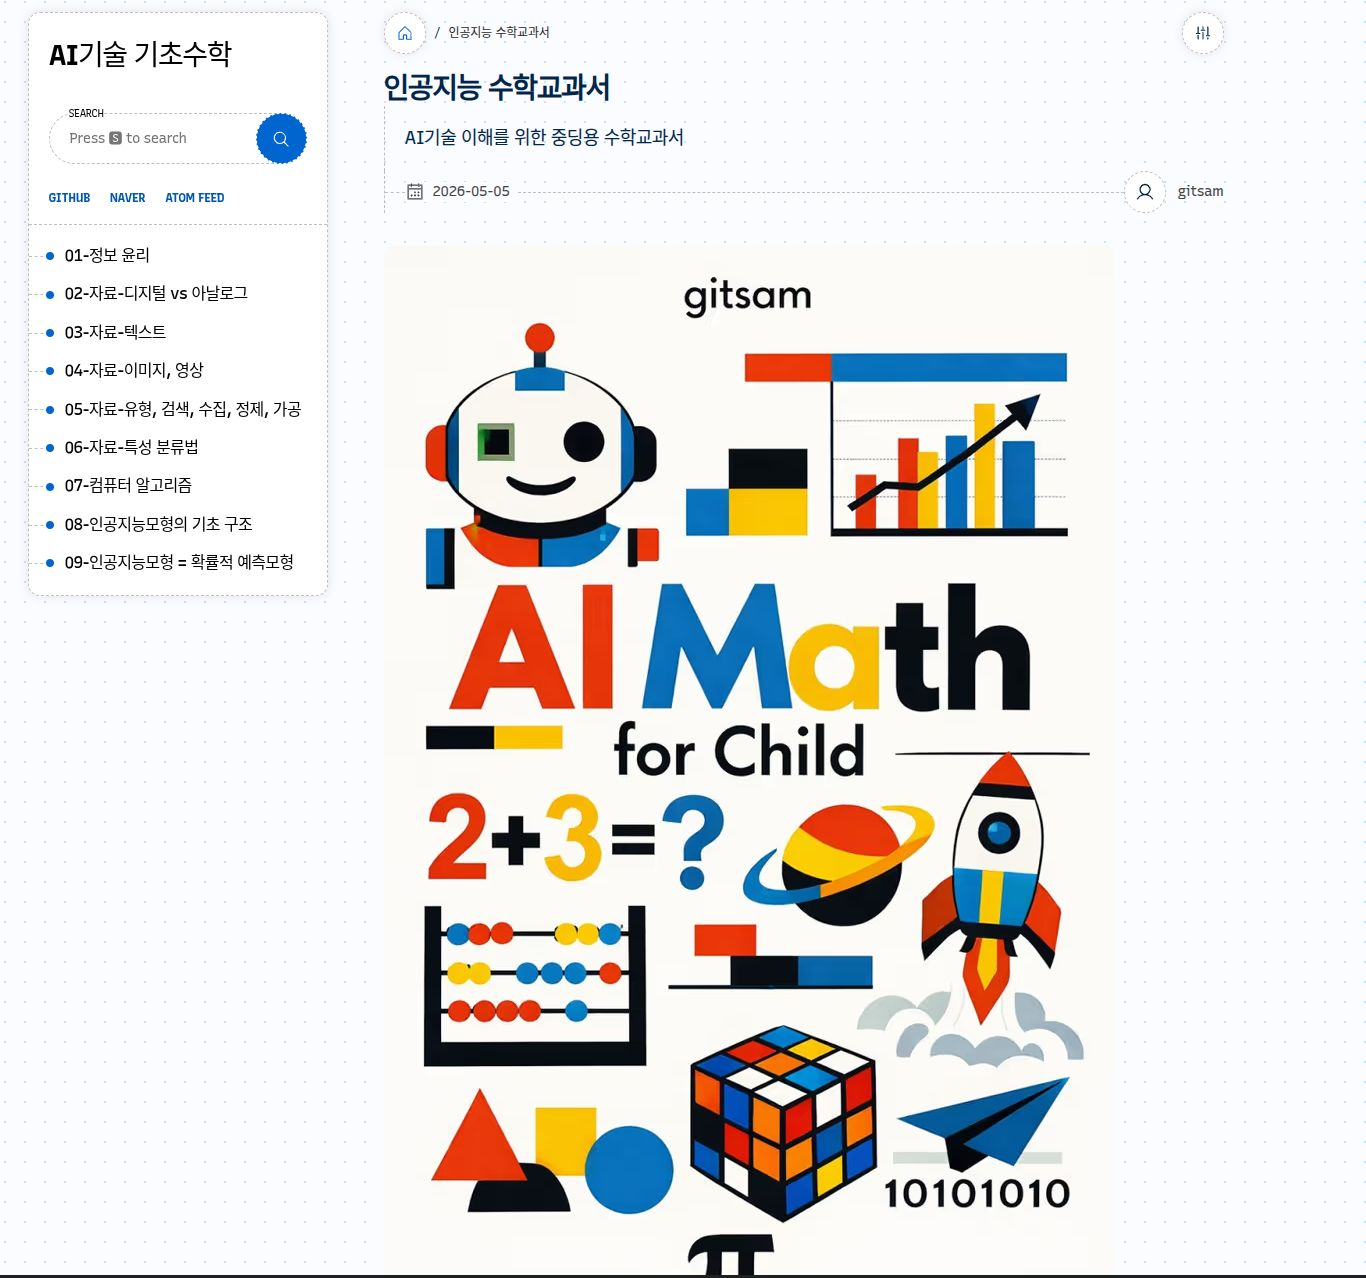
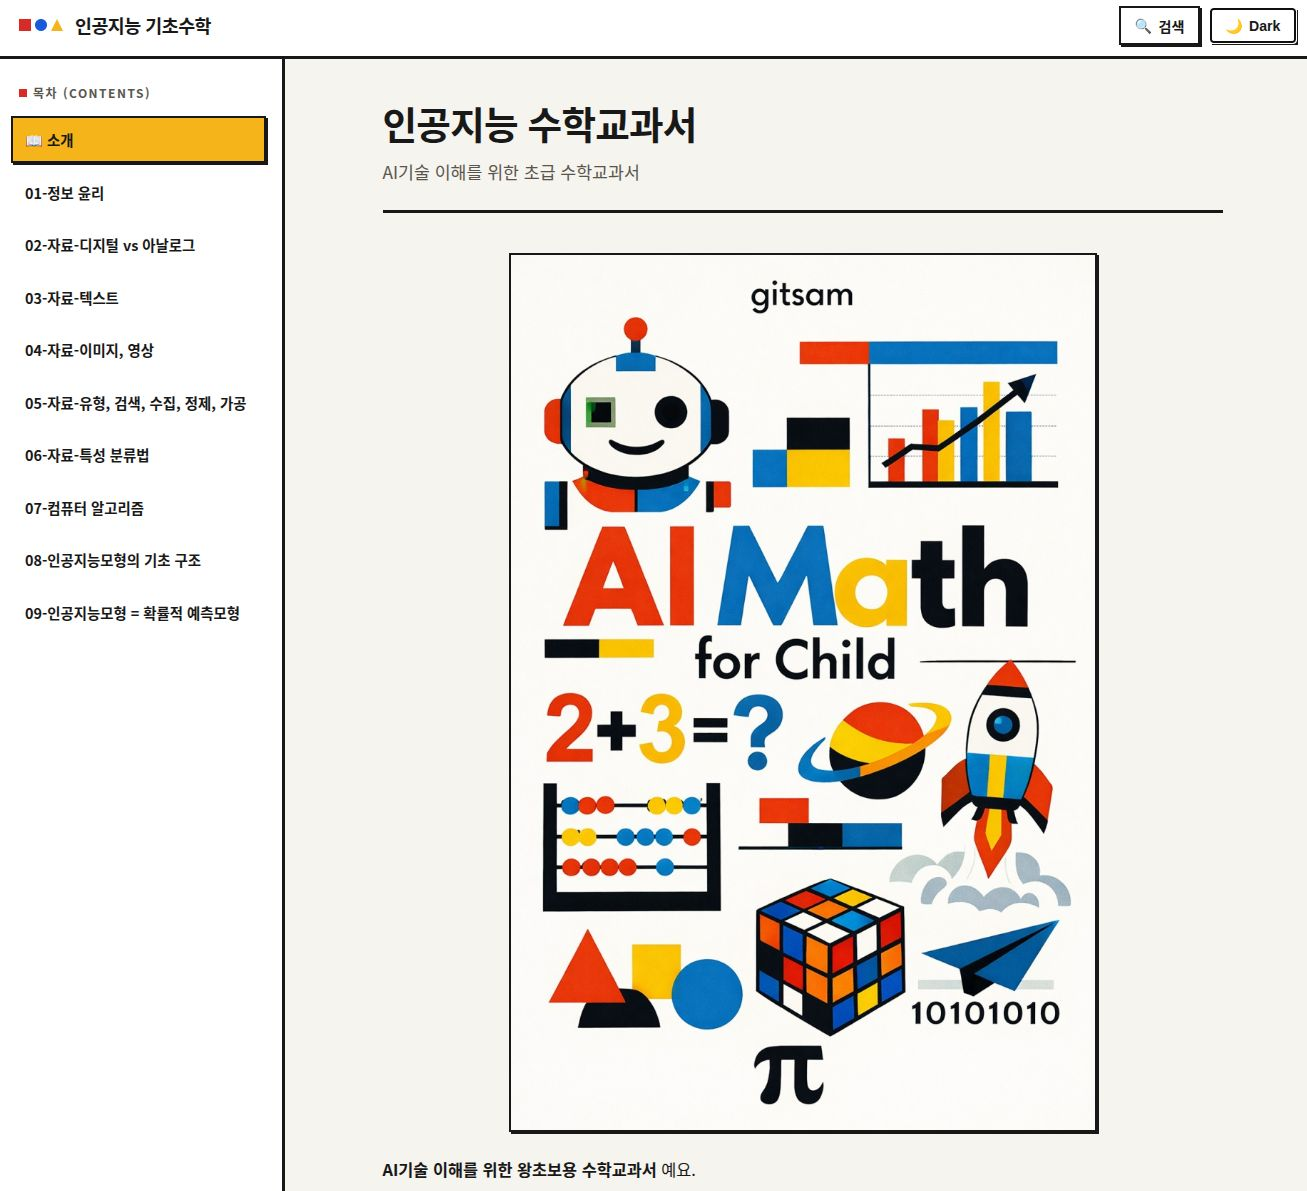
update: deploy-netlify

diff --git a/index.html b/index.html
@@ -277,7 +277,7 @@
         <div class="slot-machine-container relative z-10">
             <!-- Left: Stats & Info -->
             <div class="flex flex-col gap-4">
-                <div class="order-2 lg:order-1">
+                <div class="order-1 lg:order-1">
                     <p>GITSAM LAB</p>
                     <h1 class="text-3xl sm:text-5xl lg:text-5xl font-black tracking-tighter uppercase leading-[1] mb-2">
                             느<span style="color: var(--bauhaus-red);">좋</span> 창작 <span
@@ -286,7 +286,7 @@
                     <h3>삼순동순 | 기술좋문 좋소기업</h3>
                 </div>
 
-                <div class="bg-black text-white p-4 sm:p-6 bauhaus-border border-white order-1 lg:order-2">
+                <div class="bg-black text-white p-4 sm:p-6 bauhaus-border border-white order-2 lg:order-2">
                     <span class="text-[8px] sm:text-[9px] uppercase tracking-widest opacity-60">Total Balance</span>
                     <div id="balance" class="text-3xl sm:text-4xl font-black tabular-nums">$5,000</div>
                 </div>
